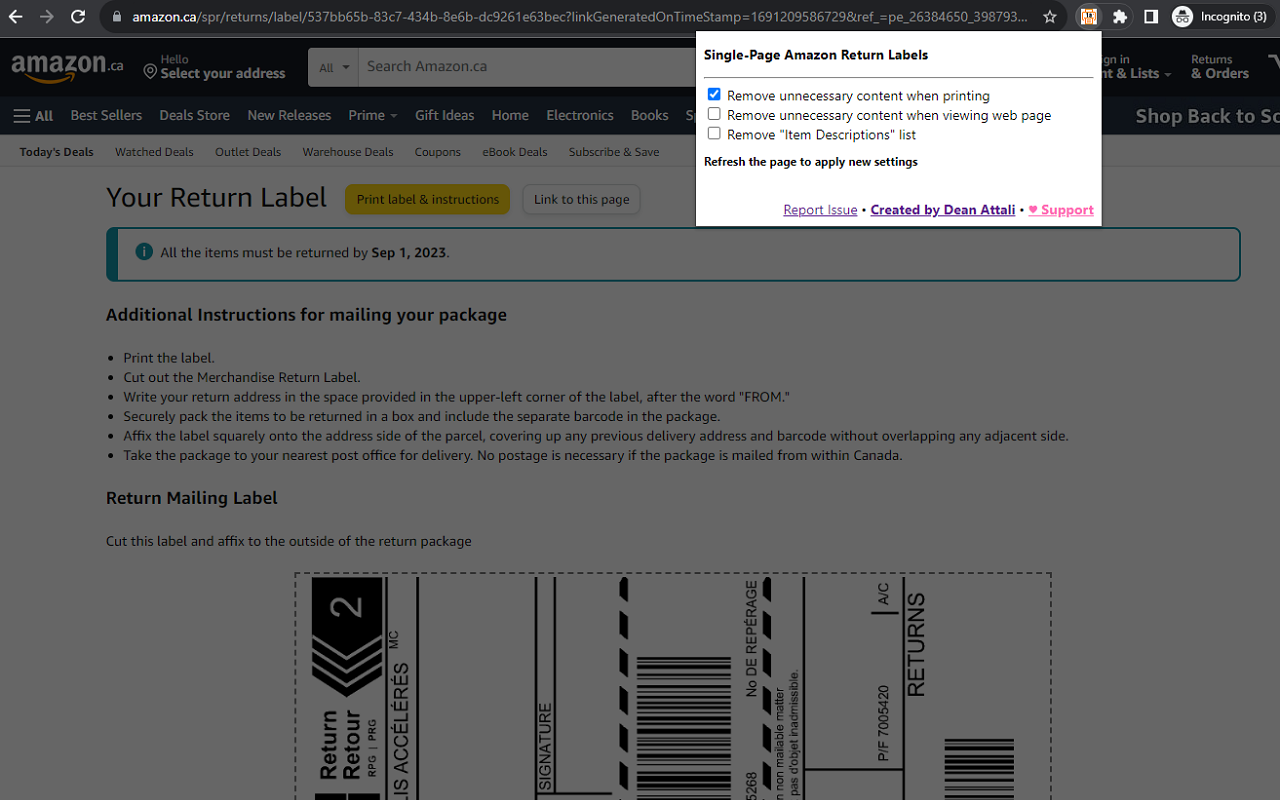
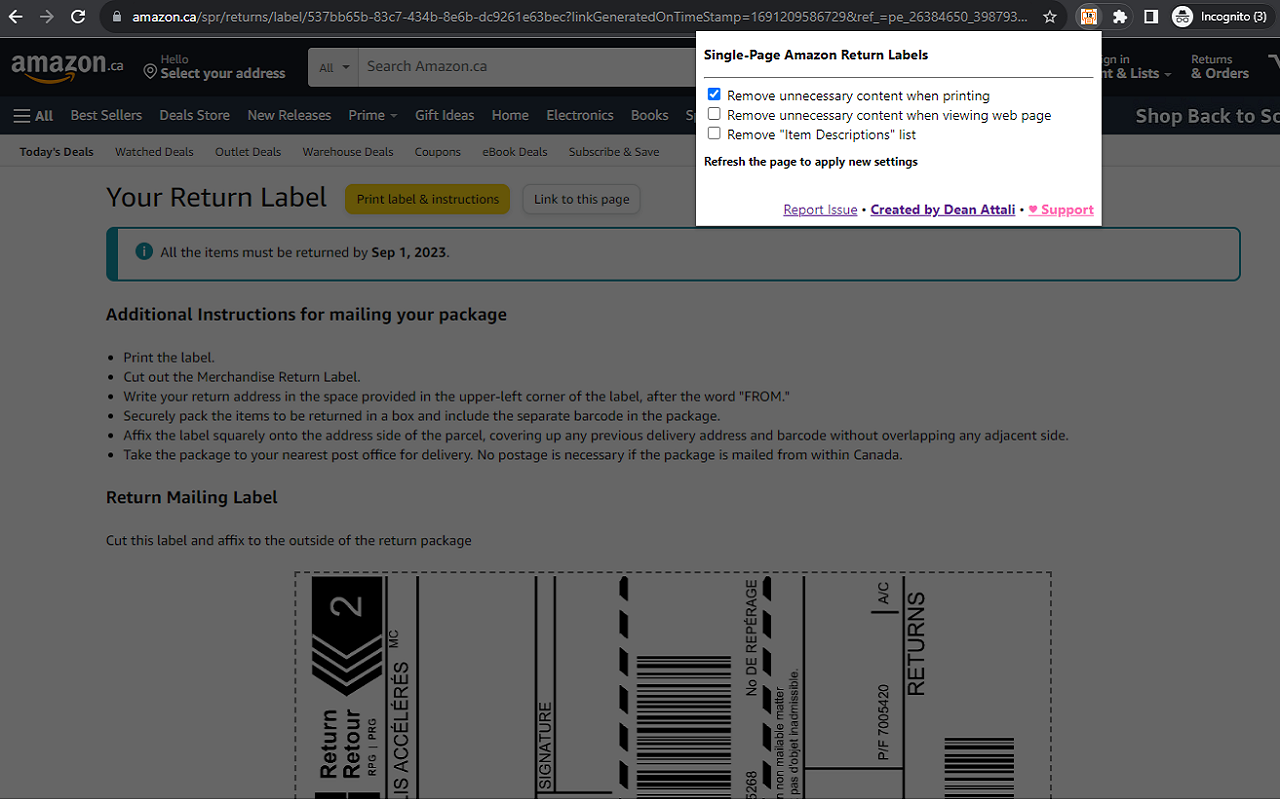
slight css changes

diff --git a/chrome/html/options.html b/chrome/html/options.html
@@ -1,15 +1,15 @@
 <!doctype html>
 <html lang="en">
-  <body>
+  <body style="font-size: 14px;">
     <h3>Single-Page Amazon Return Labels</h3><hr>
-    <form style="width: 400px; font-size: 14px;">
+    <form style="width: 400px;">
       <label><input type="checkbox" id="remove_print" name="remove_print"/> Remove unnecessary content when printing</label><br>
       <label><input type="checkbox" id="remove_web" name="remove_web" /> Remove unnecessary content when viewing web page</label><br>
       <label><input type="checkbox" id="remove_items" name="remove_items" /> Remove "Item Descriptions" list</label><br>
     </form>
-    <div style="margin-top: 10px; font-weight: bold; font-size: 12px;">Refresh the page to apply new settings</div>
+    <div style="margin-top: 10px; font-weight: bold;">Refresh the page to apply new settings</div>
     <br><br>
-    <div style="text-align: right; font-size: 14px;">
+    <div style="text-align: right;">
       <a href="https://github.com/daattali/single-page-amazon-return-labels-extension/issues" target="_blank">Report Issue</a>
       &bull;
       <a style="font-weight: bold;" href="https://deanattali.com" target="_blank">Created by Dean Attali</a>
